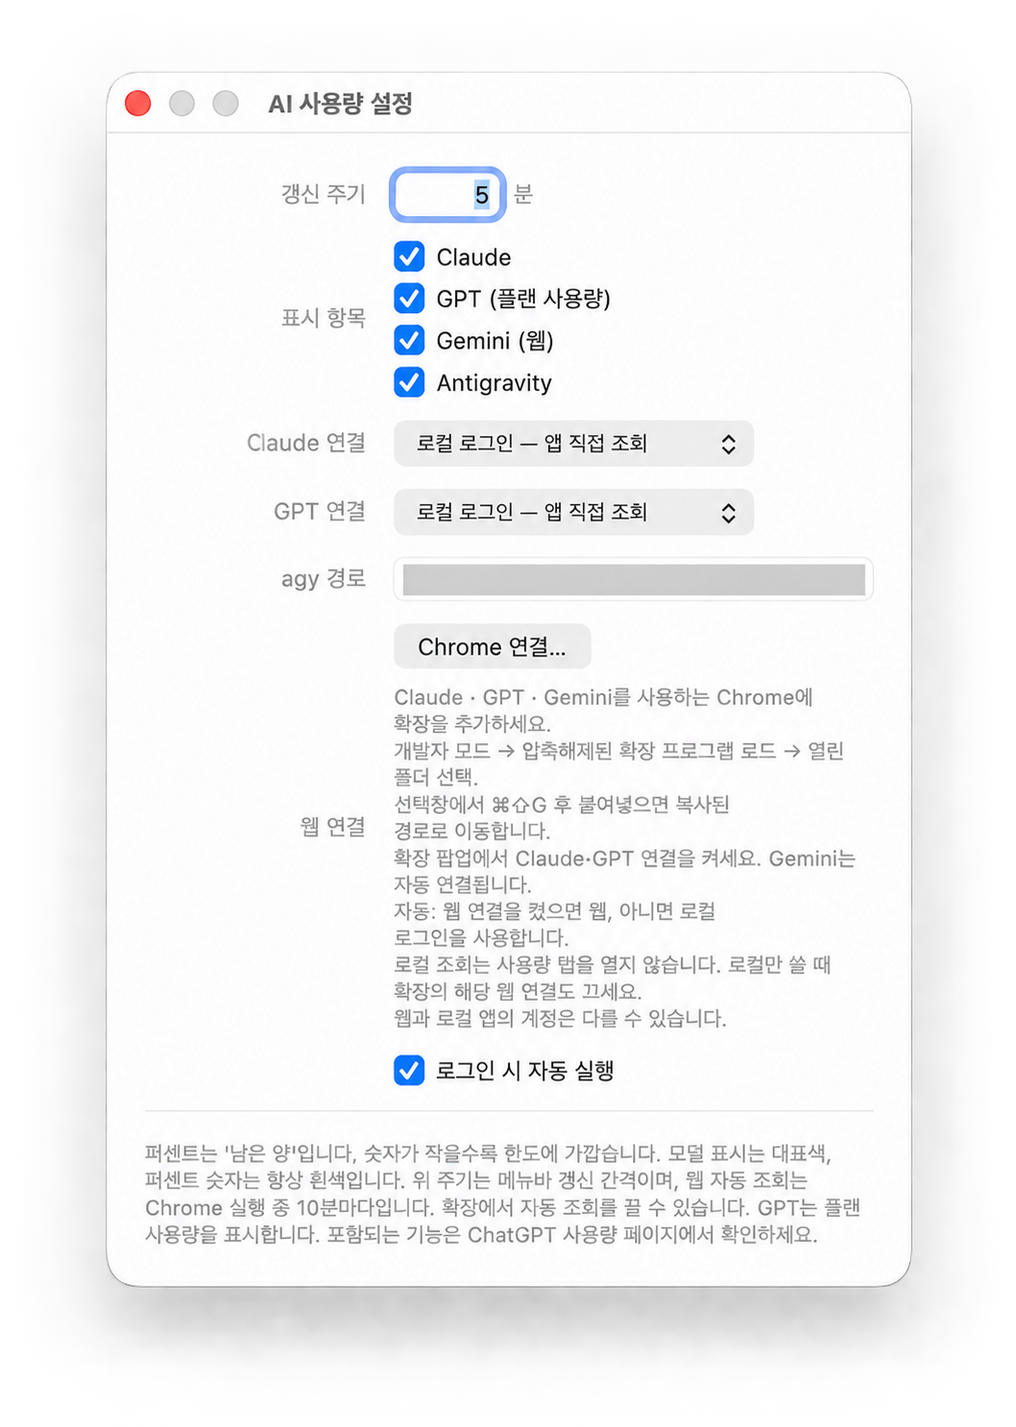
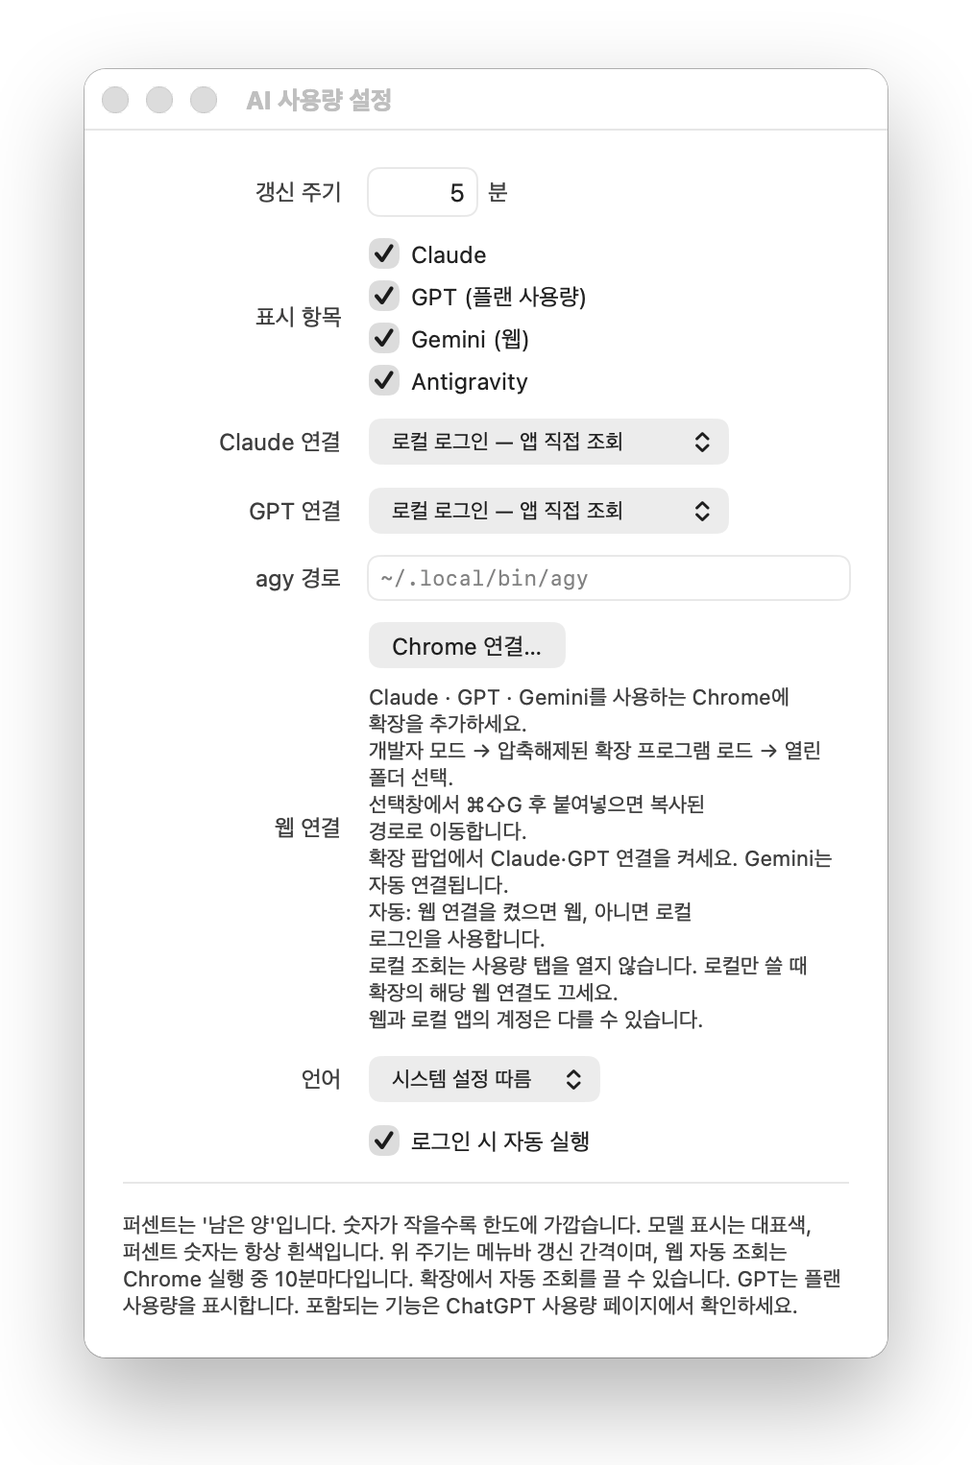
Document v1.4.0: English interface, Homebrew install, refreshed settings images
The English README now uses the app's English labels instead of glossing the
Korean ones. Both READMEs point at the v1.4.0 download, mention the language
setting and the Homebrew cask, and report the current test counts. The
settings images are re-rendered from the app in each language and include the
new Language row. The popup shows the Gemini check time on its own line.

diff --git a/ChromeExtension/popup.html b/ChromeExtension/popup.html
@@ -11,7 +11,7 @@
   input { width: 100%; box-sizing: border-box; padding: 7px 8px; margin-top: 5px;
           border: 1px solid #8886; border-radius: 8px; font: inherit; font-size: 12px; }
   #hint { font-size: 11px; opacity: .7; margin: 5px 0 0; }
-  #result { font-weight: 600; margin: 16px 0; }
+  #result { font-weight: 600; margin: 16px 0; white-space: pre-line; }
   button { width: 100%; padding: 9px; margin-top: 7px; border: 1px solid #8886; border-radius: 8px; cursor: pointer; }
   small { display: block; opacity: .7; margin-top: 14px; }
 </style>

diff --git a/README.en.md b/README.en.md
@@ -22,7 +22,7 @@
 </p>
 
 <p align="center">
-  <a href="https://github.com/hong-minji/ai-usage-bar/releases/download/v1.3.0/AIUsageBar-1.3.0-universal.zip"><b>↓ Download for Mac — v1.3.0</b></a>
+  <a href="https://github.com/hong-minji/ai-usage-bar/releases/download/v1.4.0/AIUsageBar-1.4.0-universal.zip"><b>↓ Download for Mac — v1.4.0</b></a>
   &nbsp;·&nbsp; <a href="#install">Install</a>
   &nbsp;·&nbsp; <a href="#connect-your-services">Connect</a>
   &nbsp;·&nbsp; <a href="https://github.com/hong-minji/ai-usage-bar/releases">Releases</a>
@@ -32,7 +32,7 @@
 A free, open-source Mac menu bar app that shows how much of your Claude, ChatGPT/Codex, Gemini and Antigravity allowance is left, side by side. **Connect with the web logins you already have in Chrome, with no terminal or CLI**, or keep using existing Claude Code and Codex logins and the agy CLI. Runs on macOS 13 or later, on both Apple Silicon and Intel.
 
 > [!NOTE]
-> The app's interface is currently Korean. This guide gives each label in Korean with its English meaning, so setup works either way.
+> The app follows your system language, in English or Korean. You can also choose one under **Settings… → Language**. The extension popup follows Chrome's language.
 
 ## Why AI Usage Bar?
 
@@ -48,20 +48,36 @@ A free, open-source Mac menu bar app that shows how much of your Claude, ChatGPT
 
 <br clear="right">
 
-The screenshot is the actual app; values change with usage. Open the menu for each service's individual limits and reset times where available.
+The screenshot is the actual app; values change with usage. Open the menu for each service's individual limits and reset times where available. It shows the Korean interface. In English the same readings appear as:
+
+```text
+Claude 46% · GPT 95% · Gemini 70% · agy 0%
+
+Claude  Chrome web
+  █████░░░░░  46% left   5-hour
+  █████░░░░░  52% left   Weekly
+GPT (plan usage)  Chrome web
+  ██████████  95% left   Weekly
+```
 
 ## Install
 
 No terminal, Xcode, Homebrew or Node.js required.
 
-1. Download **[AIUsageBar-1.3.0-universal.zip](https://github.com/hong-minji/ai-usage-bar/releases/download/v1.3.0/AIUsageBar-1.3.0-universal.zip)**. The same file supports Apple Silicon and Intel.
+1. Download **[AIUsageBar-1.4.0-universal.zip](https://github.com/hong-minji/ai-usage-bar/releases/download/v1.4.0/AIUsageBar-1.4.0-universal.zip)**. The same file supports Apple Silicon and Intel.
 2. Double-click the ZIP to extract it. It contains `AIUsageBar.app`, `START-HERE.txt` and `LICENSE.txt`.
 3. **Move the app to Applications before opening it.** Choose its permanent location before connecting Chrome.
-4. Find the app in the menu bar at the top of the screen. Open **설정…** (Settings) → **표시 항목** (Visible items) and keep only the services you use. There is no Dock icon.
+4. Find the app in the menu bar at the top of the screen. Open **Settings… → Show** and keep only the services you use. There is no Dock icon.
 5. Connect your services using whichever option fits under [Connect your services](#connect-your-services).
 
 > [!IMPORTANT]
 > This is an early public release. It is ad-hoc signed, without Apple Developer ID signing or notarization, so macOS may block the first launch. Read [First launch](#first-launch) below. Windows and Linux are not supported.
+
+If you use Homebrew, one line installs it. Because the app is not notarized, the first-launch approval is still required.
+
+```sh
+brew install --cask hong-minji/tap/ai-usage-bar
+```
 
 GitHub's **Code → Download ZIP** and the **Source code** release assets contain source files; the runnable app is in `AIUsageBar-…-universal.zip` linked above. A service's login tool or Chrome is needed only when you connect that service.
 
@@ -92,12 +108,12 @@ Web connections for Claude, GPT and Gemini need no CLI installation. If you alre
 
 The extension is bundled in the app and is not on the Chrome Web Store. Usage pages must be in Korean or English. Sign in to the services in the Chrome profile you want to use.
 
-1. In the installed app, open **설정… → 웹 연결 → Chrome 연결…** (Settings → Web connection → Connect Chrome). This registers the app and copies the extension folder path.
+1. In the installed app, open **Settings… → Web connection → Connect Chrome…**. This registers the app and copies the extension folder path.
 2. Open `chrome://extensions/` in that Chrome profile and enable **Developer mode**.
 3. Choose **Load unpacked**, press **⌘⇧G**, paste, press **Enter**, then select the folder.
-4. Open **AI 사용량 · 웹 연결** from Chrome's extension menu.
-5. Turn on **Claude 웹 연결** and/or **GPT 플랜 웹 연결**. Gemini connects automatically.
-6. Press the service's **지금 갱신** (Refresh now). The app labels these readings **Chrome 웹** (Chrome web).
+4. Open **AI Usage Bar · Web Connection** from Chrome's extension menu.
+5. Turn on **Claude web connection** and/or **GPT plan web connection**. Gemini connects automatically.
+6. Press the service's refresh button. The app labels these readings **Chrome web**.
 
 The extension opens inactive usage tabs and closes them after reading. Tabs you select yourself are preserved. If you move the app, reconnect Chrome and load the extension from the new location. Keep the app and extension folder in place.
 
@@ -107,20 +123,20 @@ For Gemini, you can optionally pin a Google email in the extension popup. Otherw
 
 ### B. Use existing local logins (Claude Code · Codex · agy)
 
-<img src="docs/settings.png" width="420" alt="AI Usage Bar settings with Claude and GPT set to Local login — direct app query">
+<img src="docs/settings-en.png" width="420" alt="AI Usage Bar settings with Claude and GPT set to Local login — direct app query">
 
-*Example settings screen, edited to hide the personal folder path for publication. The app UI is Korean.*
+*Example settings screen. The published image shows a default path in place of a personal folder path.*
 
 If you are already signed in to Claude Code or Codex, you can keep using that login without a web connection. **Installation alone is not enough: you must also be signed in.** You do not need to leave a terminal window open or repeat commands. Codex depends on its local login file, not on whether you personally use its CLI.
 
-**What does “앱 직접 조회” (direct app query) mean?** AI Usage Bar requests remaining usage from the service using an existing login saved on this Mac.
+**What does “direct app query” mean?** AI Usage Bar requests remaining usage from the service using an existing login saved on this Mac.
 
 - **Claude:** Uses the existing Claude Code login. macOS may ask for Keychain access.
 - **GPT:** Uses the existing Codex login on this Mac to display GPT plan usage.
 - **agy:** Requires the CLI installed and signed in. Set its executable path if automatic discovery fails. Hide agy if you do not use it.
 - You do not need to keep a terminal, Claude Code or Codex open. This mode opens no Chrome usage tabs and sends no prompts to AI models.
 
-Both Claude and GPT use local queries in this example. Gemini web still needs the Chrome extension. To use the local account while Chrome is also connected, select **로컬 로그인 — 앱 직접 조회** (Local only) in app Settings, and **also disable that service's web connection in the extension popup** to stop duplicate checks.
+Both Claude and GPT use local queries in this example. Gemini web still needs the Chrome extension. To use the local account while Chrome is also connected, select **Local login — direct app query** in app Settings, and **also disable that service's web connection in the extension popup** to stop duplicate checks.
 
 ### Choosing a connection mode
 
@@ -128,9 +144,9 @@ App Settings offers three choices for Claude and GPT.
 
 | Choice | Behavior |
 |---|---|
-| 자동 — 웹 연결 시 웹 사용 / Automatic | Uses an enabled Chrome connection when present, otherwise the existing local login |
-| Chrome 웹만 — 터미널 불필요 / Chrome only | Reads browser reports without querying local credentials |
-| 로컬 로그인 — 앱 직접 조회 / Local only | Uses existing Claude Code / Codex credentials |
+| Automatic — web when connected | Uses an enabled Chrome connection when present, otherwise the existing local login |
+| Chrome web only — no terminal | Reads browser reports without querying local credentials |
+| Local login — direct app query | Uses existing Claude Code / Codex credentials |
 
 A browser error does not silently switch to a different local account. **Your browser and local apps may be signed in to different accounts: check the Chrome profile you choose.** Claude/GPT web reports use that profile's current signed-in account without collecting its email. Use one Chrome profile for the connection.
 
@@ -140,14 +156,14 @@ Automatic mode uses an explicitly enabled web connection, otherwise the local lo
 
 - Choose visible services in Settings. agy is hidden by default; enable it only if you use the CLI.
 - The app refreshes every five minutes. Opening its menu does not trigger extra API queries or launch agy. The interval is configurable from 1 to 120 minutes.
-- Chrome polls every ten minutes while running. Turn off **웹 자동 조회** (automatic web checks) to prevent scheduled usage tabs; use the per-service Refresh now buttons when needed. An in-progress check finishes normally. Manual mode keeps the previous reading and shows its age when stale.
+- Chrome polls every ten minutes while running. Turn off **Automatic web checks** in the extension popup to prevent scheduled usage tabs; use the per-service Refresh now buttons when needed. An in-progress check finishes normally. Manual mode keeps the previous reading and shows its age when stale.
 - Failures show the previous successful reading with its age and an error, never a fabricated `0%`.
 - Only usage queries are made. No model prompts are sent.
 
 ### Reduce resource use
 
-- **Already signed in to local Claude Code/Codex?** Select **로컬 로그인 — 앱 직접 조회** (direct local-login query). This reads usage through HTTP using the existing login, without launching Claude Code/Codex agents or Chrome usage tabs. Also disable that service in the extension to stop duplicate browser polling.
-- **Web-only user?** Download the app and connect Chrome. Turn off **웹 자동 조회** to refresh only when needed; no CLI installation is required.
+- **Already signed in to local Claude Code/Codex?** Select **Local login — direct app query**. This reads usage through HTTP using the existing login, without launching Claude Code/Codex agents or Chrome usage tabs. Also disable that service in the extension to stop duplicate browser polling.
+- **Web-only user?** Download the app and connect Chrome. Turn off **Automatic web checks** to refresh only when needed; no CLI installation is required.
 - **Do not use agy?** Hide it in app Settings. When enabled, its CLI runs briefly for each quota check. The verified `/quota` response reported zero input, output and thinking tokens and zero turns.
 - Increase the app refresh interval to reduce local API/agy checks. The extension's automatic interval is independently set to ten minutes.
 
@@ -191,9 +207,9 @@ This is an independent app. Changes to a provider's authentication, responses or
 | GPT login unavailable | Enable Chrome web access or check the existing local Codex login. |
 | GPT shows `–` | No plan reading is available yet. Check Chrome access or the existing local Codex login. |
 | No web reading | Check extension reload, site permissions, service login and connection toggles. |
-| Gemini needs a menu bar app connection | Click **Chrome 연결…** in the currently installed app and reload the extension. |
-| Gemini shows old values | Check that Chrome is running and signed in, then press **지금 갱신** in the extension popup. |
-| An unused service shows an error | Disable it under **설정… → 표시 항목**. |
+| Gemini needs a menu bar app connection | Click **Connect Chrome…** in the currently installed app and reload the extension. |
+| Gemini shows old values | Check that Chrome is running and signed in, then press **Refresh now** in the extension popup. |
+| An unused service shows an error | Disable it under **Settings… → Show**. |
 | Antigravity fails | Check `agy` sign-in and the executable path. |
 
 Still stuck? [Open an issue](https://github.com/hong-minji/ai-usage-bar/issues/new/choose) with the app version, macOS version, Mac architecture, affected service and reproduction steps. Do not include emails, tokens, authentication files or private conversations.
@@ -233,9 +249,9 @@ You may need to complete sign-in and macOS security approvals yourself. Do not p
 
 ## Update and uninstall
 
-**Update:** Quit the existing app from its menu → download the new ZIP from [Releases](https://github.com/hong-minji/ai-usage-bar/releases) → replace the app in the same Applications location → reopen it. Updates are manual. Reload the web extension at `chrome://extensions/`. If the app moved, reconnect Chrome and toggle launch at login off and on.
+**Update:** Quit the existing app from its menu → download the new ZIP from [Releases](https://github.com/hong-minji/ai-usage-bar/releases) → replace the app in the same Applications location → reopen it. Updates are manual. If you installed with Homebrew, quit the app and run `brew upgrade --cask ai-usage-bar`. Reload the web extension at `chrome://extensions/`. If the app moved, reconnect Chrome and toggle launch at login off and on.
 
-**Uninstall:** In Settings, turn off **로그인 시 자동 실행** (Launch at login), quit, then move the app to Trash. If you connected Chrome, remove the extension and the registration file below. Remove the cache folder to erase usage history, and the preferences file to erase settings.
+**Uninstall:** In Settings, turn off **Launch at login**, quit, then move the app to Trash. If you connected Chrome, remove the extension and the registration file below. Remove the cache folder to erase usage history, and the preferences file to erase settings.
 
 ```text
 Chrome registration: ~/Library/Application Support/Google/Chrome/NativeMessagingHosts/com.local.ai_usage_bar.gemini.json
@@ -251,9 +267,9 @@ Turning off launch at login removes its file. If you used the developer installe
 Stated plainly rather than hidden.
 
 - No Apple Developer ID signing or notarization, so you must approve the first launch yourself.
-- No automatic updates. New versions are downloaded from Releases.
+- No automatic updates. New versions are downloaded from Releases or upgraded with Homebrew.
 - The web extension is not on the Chrome Web Store, so it is added in Developer mode, and usage pages must be in Korean or English.
-- The app interface is Korean only.
+- The app interface is available in English and Korean only.
 - Installation and execution have not been verified on macOS 13 or every supported Mac model.
 
 Have a suggestion, or a service you would like supported? [Open an issue](https://github.com/hong-minji/ai-usage-bar/issues).
@@ -276,15 +292,15 @@ node --test ChromeExtension/*tests.cjs # Extension tests; requires Node.js
 ./build/AIUsageBar.app/Contents/MacOS/AIUsageBar --once # One live check
 ```
 
-For `v1.3.0`, 149 Swift checks and 41 extension tests passed, along with the universal build, ZIP extraction and signature verification. Live verification scope is recorded in the release notes. GPT shows the reported plan allowance; it does not estimate a separate chat counter.
+For `v1.4.0`, 200 Swift checks and 48 extension tests passed, along with the universal build, ZIP extraction and signature verification. Live verification scope is recorded in the release notes. GPT shows the reported plan allowance; it does not estimate a separate chat counter.
 
 To verify file integrity, download the release ZIP and its `.sha256` file into the same folder, then run:
 
 ```sh
-shasum -a 256 -c AIUsageBar-1.3.0-universal.zip.sha256
+shasum -a 256 -c AIUsageBar-1.4.0-universal.zip.sha256
 ```
 
-Want to add a service you use? The steps are in the [contributing guide](CONTRIBUTING.md). · [Chrome extension](ChromeExtension/) · [Release notes](docs/releases/v1.3.0.md)
+Want to add a service you use? The steps are in the [contributing guide](CONTRIBUTING.md). · [Chrome extension](ChromeExtension/) · [Release notes](docs/releases/v1.4.0.md)
 
 ## If it helps
 

diff --git a/CONTRIBUTING.md b/CONTRIBUTING.md
@@ -20,6 +20,7 @@ Read this first — nearly every design decision in the project follows from it.
 | **조회가 사용량을 소모하면 안 된다** <br> Polling must not consume quota | 5분마다 도는 코드입니다. 추론 엔드포인트를 부르면 측정 대상을 측정 행위가 깎습니다. <br> It runs every 5 minutes; an inference call would eat the thing being measured. |
 | **`usedPercent`로 저장하고 `remainingPercent`로 표시한다** <br> Store used, display remaining | 서비스마다 '쓴 양'과 '남은 양' 중 아무거나 주기 때문에 저장 단계에서 하나로 정규화합니다. <br> Upstreams report either one; normalise at the parse boundary. |
 | **테스트는 네트워크 없이 돈다** <br> Tests run offline | 실제 응답을 픽스처로 박아 둡니다. 로그인 없이도 전부 통과해야 합니다. <br> Real responses are pinned as fixtures. |
+| **화면 문구는 `L(한국어, 영어)`로 쓰고, 저장되는 라벨은 번역하지 않는다** <br> Visible text goes through `L(korean, english)`; stored labels are not translated | 앱은 한국어와 영어 화면을 함께 제공합니다. `5시간`·`주간` 같은 한도 라벨은 캐시와 Chrome 확장이 공유하는 값이라 그대로 저장하고, 그릴 때 `localizedWindowLabel`로 바꿉니다. <br> Both interface languages ship. Window labels are shared with caches and the extension, so they are stored as-is and translated on display. |
 | **`TESTABLE` 파일에 AppKit을 넣지 않는다** <br> No AppKit in `TESTABLE` files | `build.sh`의 `TESTABLE` 목록은 테스트 바이너리로 링크됩니다. AppKit이 들어가면 빌드가 깨집니다. <br> Those files link into the test binary. |
 
 ---
@@ -66,7 +67,7 @@ For a new one, run its CLI's usage command, or find the endpoint its usage page 
 
 5. **`Sources/Coordinator.swift`** — `fetchX(skip:)`를 추가하고 `refresh()`의 `async let` 묶음과 `next[...]` 대입에 연결합니다. 실패 경로는 반드시 `degrade(...)`를 거쳐 마지막 성공값으로 떨어져야 합니다.
 
-6. **`Sources/MenuBarController.swift`** — `hintItem(for:)`에 로그인 안내 문구 한 줄.
+6. **`Sources/MenuBarController.swift`** — `hintItem(for:)`에 로그인 안내 문구 한 줄. 한국어와 영어를 `L("…", "…")`로 함께 씁니다.
 
 7. **`Sources/Prefs.swift`** — 소수만 쓰는 서비스라면 `hiddenProviders` 기본값에 넣어 기본 숨김으로 둡니다.
 
@@ -138,6 +139,7 @@ Run both suites and look at `--once` output yourself. "Should pass" and "passed"
 
 - **파서가 깨졌을 때** — 서비스가 응답 형식이나 페이지 문구를 바꾸면 파싱이 실패합니다. 이슈에 **실제 응답(토큰은 지우고)** 이나 사용량 페이지의 해당 문구를 붙여주시면 가장 빠릅니다.
 - **다른 언어의 Gemini 페이지** — 현재 파서는 한국어·영어 문구만 인식합니다. `ChromeExtension/parser.js`의 `parseUsage`와 `labelFor`에 패턴을 추가하고 `tests.cjs`에 케이스를 넣어주세요.
+- **화면 번역** — 앱 문구는 `Sources`의 `L("한국어", "English")` 호출에, 확장 문구는 `ChromeExtension/_locales/{ko,en}/messages.json`에 있습니다. 어색한 영어 표현을 고치는 기여도 환영합니다.
 - **버그** — macOS 버전, 어느 프로바이더인지, `--once` 출력(계정 이메일은 지우고)을 함께 적어주세요.
 
 If a provider changes its response shape, paste the **real** response (with tokens removed) into the issue — that is the one thing that makes the fix quick.

diff --git a/docs/releases/v1.4.0.md b/docs/releases/v1.4.0.md
@@ -1,0 +1,37 @@
+# AI Usage Bar v1.4.0
+
+## 한국어
+
+앱과 Chrome 확장을 영어로도 쓸 수 있습니다.
+
+- 앱 화면이 시스템 언어를 따라 **한국어 또는 영어**로 표시됩니다. 시스템의 언어 목록에서 한국어와 영어 중 먼저 나오는 쪽을 쓰고, 둘 다 없으면 영어입니다.
+- **설정… → 언어**에서 시스템 설정 따름 / 한국어 / English 중 직접 고를 수 있습니다. 바꾸면 메뉴와 설정 창이 바로 바뀝니다.
+- Chrome 확장의 이름과 팝업도 Chrome 언어에 맞춰 표시됩니다. 영어 Chrome에서는 확장 이름이 **AI Usage Bar · Web Connection**입니다.
+- 저장되는 한도 이름과 확장·앱 사이의 데이터 형식은 바뀌지 않았습니다. 기존 캐시와 연결 설정은 그대로 유지됩니다.
+- 확장 팝업에서 Gemini 확인 시각을 수치 아래 줄에 표시합니다.
+- README를 강점 중심으로 다시 정리하고 Homebrew 설치 안내를 추가했습니다.
+
+앱을 종료하고 `AIUsageBar-1.4.0-universal.zip`의 앱으로 교체한 뒤 Chrome 확장을 새로고침하세요. 새 사이트 권한은 없습니다. 영어 macOS에서 한국어 화면을 써 왔다면 업데이트 후 영어로 보입니다. **Settings… → Language**에서 한국어를 고르면 이전과 같습니다.
+
+## English
+
+The app and its Chrome extension are now available in English.
+
+- The interface follows the system language, in **Korean or English**. It uses whichever of the two comes first in your language list, and English when neither is listed.
+- **Settings… → Language** lets you choose System default, 한국어 or English. The menu and the settings window switch immediately.
+- The Chrome extension's name and popup follow Chrome's language. In an English Chrome the extension is named **AI Usage Bar · Web Connection**.
+- Stored window labels and the data format between the extension and the app are unchanged. Existing caches and connection settings carry over.
+- The extension popup shows the Gemini check time on its own line.
+- Both READMEs were reorganized around what the app does well, and Homebrew installation is documented.
+
+Quit and replace the app with the one in `AIUsageBar-1.4.0-universal.zip`, then reload the Chrome extension. No new site permissions. If you used the Korean interface on an English macOS, the app appears in English after updating; choose 한국어 under **Settings… → Language** to keep it as before.
+
+## Verification / 검증
+
+- 200 Swift checks + 48 extension tests passed, including language selection, Korean and English display text, and key parity between the two extension catalogs.
+- Universal Intel/Apple Silicon build, ZIP checksum, clean extraction and ad-hoc signature verification passed. The packaged extension includes both locale catalogs.
+- On the development Mac (Intel), the built app's `--once` output was checked in both languages against cached web readings, the settings window was rendered in both languages, and choosing a language through the Settings control switched the menu text and reopened the window in place.
+- Chrome's extension packer accepted the localized manifest, and the popup was rendered in both languages with a stand-in for the extension API.
+- Not covered by these checks: live provider queries with this build, loading the updated extension in a signed-in Chrome profile, and execution on Apple Silicon.
+
+Apple Developer ID signing/notarization is not included. Not physically tested on every supported Mac or macOS 13.
